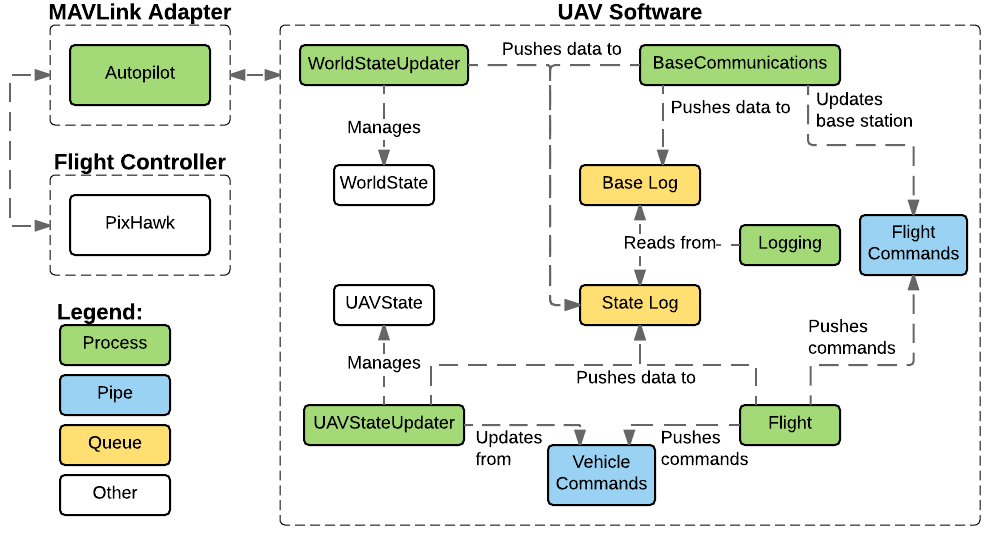
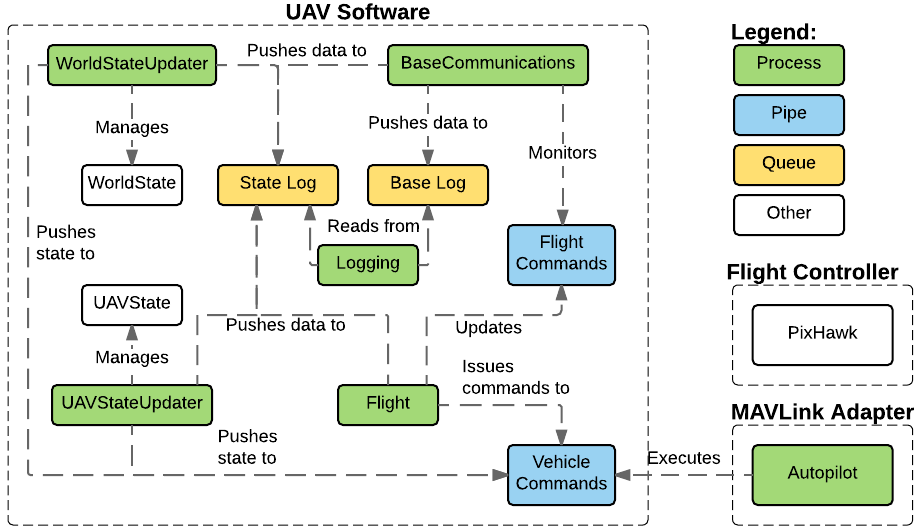
Mostly finished Section 7, added extra discussion to Lit Review

diff --git a/Latex/autonomy.tex b/Latex/autonomy.tex
@@ -1,45 +1,20 @@
-\subsection{Breaking Down the Challenge}
-\label{sec:flight}
-Any aircraft participating in the UAV Challenge must be autonomous, only interacting with a human to be armed or disarmed at the beginning and end of the mission. In order to develop 
-The Medical Express mission can be broken down into three discrete flight maneuvers:
-\begin{enumerate}[label=\bfseries M\arabic*:] \itemsep-2pt
-	\item Hover flight, including vertical take-off to cruising height, and landing
-	\item Fixed-wing flight, navigating through waypoints and keeping within GeoFence boundaries
-	\item Aerial search
-\end{enumerate}
+\subsection{Software Development}
+Any aircraft participating in the UAV Challenge must be autonomous, only interacting with a human to be armed or disarmed at the beginning and end of the mission. A framework for autonomous flight was developed in Python for the Raspberry Pi, based on the following considerations:
+\begin{itemize}
+	\item Extendibility: Software is designed so that future teams can easily add functionality to the autonomous systems
+	\item Concurrency: Software launches several parallel processes, enabling real-time interaction between the many subsystems of the aircraft and software
+	\item Low-Latency: All processes must little to no delays in communication, allowing for real-time operation 
+\end{itemize}
 
-Using these maneuvers, completing the mission can be described as completing the sequence of actions\\
-\begin{tabular}{r l l}
-	1. & Mission start after being armed & (\textbf{M1}) \\ 
-	2. & Navigate to Joe's location & (\textbf{M2}) \\ 
-	3. & Aerial search to identify Joe & (\textbf{M3}) \\ 
-	4. & Land near Joe to collect blood & (\textbf{M1}) \\ 
-	5. & Take-off after being re-armed & (\textbf{M1}) \\ 
-	6. & Navigate back to base & (\textbf{M2}) \\ 
-	7. & Land at base & (\textbf{M1}) \\ 
-\end{tabular} 
-
-\subsection{Development}
-Figure \ref{fig:softwarearchitecture} shows the autonomous flight and intelligence architecture implemented on the aircraft.
-
-\red{Considerations:
-	
-	time cost -> prototype style / separate each module (allows cut off were we get to with some functionality)
-	Extendibility -> for future years
-	Concurrency -> Multiprocessing
-	Latency -> processes polling / non blocking io etc
-}
-
-\red{Autonomy on Raspberry Pi}
-
-\red{\begin{itemize}
-	\item Generation of flight path, currently from text file but ideally based on sensing (flight.py)
-	\item Capability for executing known/expected commands by sending to PixHawk (autopilot.py)
-	\item Monitoring status of aircraft such as position, velocity (uavstate.py)
-	\item Monitoring status of world such position of obstacles, waypoints (worldstate.py)
-	\item Logging of flight conditions, sensing and motion (logging.py)
-	\item Communicate with base station (interface.py)
-\end{itemize}}
+Figure \ref{fig:softwarearchitecture} shows the software architecture for the autonomous flight and intelligence systems implemented on the Raspberry Pi, consisting of a number of parallel processes, two objects to monitor the state of the aircraft, and objects to facilitate communication between the processes. Each process shown in Figure \ref{fig:softwarearchitecture} performs a specific function:
+\begin{itemize}
+	\item \textbf{Autopilot:} Acts as an interface to pass flight commands from the UAV software to the PixHawk, and respond to sensor data
+	\item \textbf{Flight:} Generates the desired flight path for the aircraft, sends flight commands to the Autopilot process
+	\item \textbf{UAVStateUpdater:} Monitors and updates the state of the aircraft by interfacing with sensors, including GPS, accelerometer, etc; manages the UAVState object that stores sensor data
+	\item \textbf{WorldStateUpdater:} Monitors and updates the state of the world by interfacing with sensors, including camera, LiDAR and ultrasonic; manages the WorldState object that stores sensor data
+	\item \textbf{BaseCommunications:} Provides a real-time data link between the aircraft and the ground station
+	\item \textbf{Logging:} Retrieves data from other modules and generates flight logs for reviewing mission performance
+\end{itemize}
 
 \begin{figure}[!ht]
 	\centering
@@ -48,15 +23,19 @@ Figure \ref{fig:softwarearchitecture} shows the autonomous flight and intelligen
 	\label{fig:softwarearchitecture}
 \end{figure}
 
+Figure \ref{fig:softwareinteraction} shows the communication paths between the various processes. As a result of the multiprocessing framework, communication between modules is not as simple as passing variables through functions. Instead, whenever two or more processes communicate with each other, a dedicated ``link'' needs to be created between them. Pipes (blue in Figure \ref{fig:softwareinteraction}) allow for bidirectional communication between processes, such as between the Flight and Autopilot. Queues (green in Figure \ref{fig:softwareinteraction}) only allow unidirectional communication, such as between all processes and the Log process.\\
+
+One of the biggest dangers in parallel processing communication is data corruption or loss; one process attempts to read data from a link while another is modifying or writing to it. To prevent this, each process that connects with either a pipe or queue is provided with read and write ``locks''. When activated, the lock will prevent other processes from reading from, or writing to, the communication link before the current process is finished with it.
+
 \begin{figure}[!ht]
 	\centering
-	\includegraphics[width=350pt]{\IMAGEPATH /Diagrams/interaction}
+	\includegraphics[width=380pt]{\IMAGEPATH /Diagrams/interaction}
 	\caption{Interaction between software modules}
 	\label{fig:softwareinteraction}
 \end{figure}
 
 \subsection{Testing}
-Before being implemented on the prototype aircraft, the autonomous flight modules were first tested in a simulated aircraft using ArduPilot's Software in the Loop capabilities\cite{ref:sitl}. Figure \ref{fig:sitl} shows a screenshot of the mission simulation, where the virtual aircraft was successfully tested with the software discussed above, executing a simple mission consisting of takeoff to 10m, forward flight of 10m, and landing.
+Before being implemented on the prototype aircraft, the autonomous flight modules were first tested in a simulated aircraft using ArduPilot's Software in the Loop capabilities\cite{ref:sitl}. Figure \ref{fig:sitl} shows a screenshot of the mission simulation, where the virtual aircraft was successfully tested with the software discussed above, executing a simple mission consisting of a series of \textbf{M1} commands; takeoff to 10m, forward flight of 10m, and landing.
 
 \begin{figure}[!ht]
 	\centering

diff --git a/Latex/litreview.tex b/Latex/litreview.tex
@@ -1,4 +1,24 @@
-The tasks required in the 2016 UAV Challenge are such that a purely fixed-wing or rotor-based aircraft is unlikely to be successful; instead, teams will need to design an aircraft that makes use of both flight modes. Analysis of the 2014 design, a purely fixed-wing aircraft, showed that converting it to a hybrid aircraft would not result in a suitable design for the Challenge. Given the aircraft's weight, adding the necessary equipment would add over 5kg, cost over \$500, and would result in less than 60 seconds of flight time. It was therefore decided the 2014 model would not be suitable for the 2016 competition; a detailed analysis can be found in Appendix \ref{sec:lastYear}.\\
+\subsection{Mission Breakdown}
+\label{sec:flightmaneuvers}
+The Medical Express mission can be broken down into three discrete flight maneuvers:
+\begin{enumerate}[label=\bfseries M\arabic*:] \itemsep-2pt
+	\item Hover flight, including vertical take-off to cruising height, and landing
+	\item Fixed-wing flight, navigating through waypoints and keeping within GeoFence boundaries
+	\item Aerial search
+\end{enumerate}
+
+Using these maneuvers, completing the mission can be described as completing the sequence of actions\\
+\begin{tabular}{r l l}
+	1. & Mission start after being armed & (\textbf{M1}) \\ 
+	2. & Navigate to Joe's location & (\textbf{M2}) \\ 
+	3. & Aerial search to identify Joe & (\textbf{M3}) \\ 
+	4. & Land near Joe to collect blood & (\textbf{M1}) \\ 
+	5. & Take-off after being re-armed & (\textbf{M1}) \\ 
+	6. & Navigate back to base & (\textbf{M2}) \\ 
+	7. & Land at base & (\textbf{M1}) \\ 
+\end{tabular} 
+
+Executing this mission on a  purely fixed-wing or rotor-based aircraft is unlikely to be successful; instead, teams will need to design an aircraft that makes use of both flight modes. Analysis of the 2014 design, a purely fixed-wing aircraft, showed that converting it to a hybrid aircraft would not result in a suitable design for the Challenge. Given the aircraft's weight, adding the necessary equipment would add over 5kg, cost over \$500, and would result in less than 60 seconds of flight time. It was therefore decided the 2014 model would not be suitable for the 2016 competition; a detailed analysis can be found in Appendix \ref{sec:lastYear}.\\
 
 As this project involves the development of a novel aircraft platform, there is a lack of academic literature that is relevant to the problem at hand. This review will instead collate examples of commercial and hobby systems that were used to inspire and guide the development of the aircraft.\\
 

diff --git a/Latex/sensors.tex b/Latex/sensors.tex
@@ -1,5 +1,5 @@
 \label{sec:sensing}
-Figure \ref{fig:sensing} outlines the on-board sensing capabilities that are available to the aircraft. The sections below detail the motivation and use of each sensor during a mission, and are separated according to the different stages of the UAV Challenge's mission, as introduced in Section \ref{sec:flight}. At the time of writing, only some of the sensors mentioned below have been physically mounted to the aircraft, but each sensor's position on the aircraft has been incorporated into the aircraft's design.
+Figure \ref{fig:sensing} outlines the on-board sensing capabilities that are available to the aircraft. The sections below detail the motivation and use of each sensor during a mission, and are separated according to the different stages of the UAV Challenge's mission, as introduced in Section \ref{sec:flightmaneuvers}. At the time of writing, only some of the sensors mentioned below have been physically mounted to the aircraft, but each sensor's position on the aircraft has been incorporated into the aircraft's design.
 
 \begin{figure}[!ht]
 	\centering

diff --git a/Latex/contents.tex b/Latex/contents.tex
@@ -18,4 +18,4 @@
 	\tableofcontents
 \fi
 
-\todomessage{Sections mostly completed: 2 (Intro), 3 (Lit Review), 8 (Sensing), 9 (Searching for Joe)}
+\todomessage{Sections mostly completed: 2 (Intro), 3 (Lit Review), 7 (Autonomy), 8 (Sensing), 9 (Searching for Joe)}
